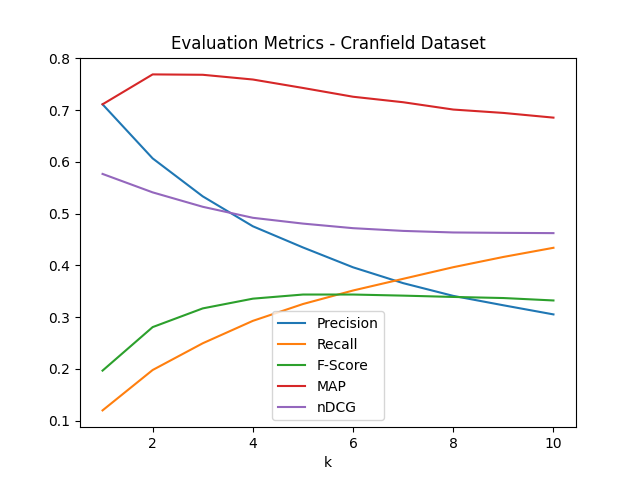
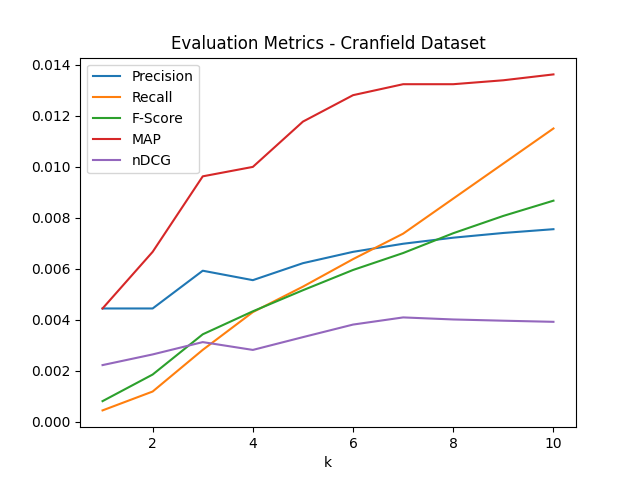
developped arg structure

diff --git a/project/informationRetrieval.py b/project/informationRetrieval.py
@@ -7,23 +7,17 @@ from sklearn.feature_extraction.text import CountVectorizer
 from sklearn.feature_extraction.text import TfidfTransformer
 from sklearn.metrics.pairwise import cosine_similarity
 from sklearn.pipeline import Pipeline
-from sklearn.model_selection import GridSearchCV
 from itertools import chain
 from sklearn.decomposition import TruncatedSVD
-import numpy as np
-from collections import defaultdict
-from nltk.corpus import wordnet
-import time
+from sklearn.decomposition import LatentDirichletAllocation
+
 
 class InformationRetrieval():
 
 	def __init__(self):
 		self.index = None
-		self.synsets_count = 0
-		self.synsets_idx = None
-		self.unique_synsets = None
 
-	def buildIndex(self, docs, docIDs):
+	def buildIndex(self, docs, docIDs, argDimRed):
 		"""
 		Builds the document index in terms of the document
 		IDs and stores it in the 'index' class variable
@@ -70,9 +64,20 @@ class InformationRetrieval():
 		# docs_expansion = expansion(docs)
 		docs = [' '.join(list(chain.from_iterable(x))) for x in docs]
 
-		pipe = Pipeline([('count', CountVectorizer(strip_accents='unicode', max_df=0.5)), 
-                   		 ('tfid', TfidfTransformer(norm='l2',use_idf=True, smooth_idf=True,sublinear_tf=False)),
-                      	 ('svd', TruncatedSVD(n_components=1300))])
+		modelsToFit = [('count', CountVectorizer(strip_accents='unicode', max_df=0.5)), 
+                   	   ('tfid', TfidfTransformer(norm='l2',use_idf=True, smooth_idf=True,sublinear_tf=False))]
+
+		if argDimRed == 'lsa':
+			modelsToFit.append(('svd', TruncatedSVD(n_components=1300)))
+		elif argDimRed == 'lda':
+			modelsToFit.append(('lda', LatentDirichletAllocation(n_components=900)))
+		elif argDimRed == 'no':
+			pass
+		else:
+			exit('Sayonara')
+			
+
+		pipe = Pipeline(modelsToFit)
 		self.pipe = pipe
 		tfidf_docs = pipe.fit_transform(docs)
 		self.tfidf_docs = tfidf_docs

diff --git a/project/main.py b/project/main.py
@@ -171,7 +171,7 @@ class SearchEngine:
 		processedDocs = self.preprocessDocs(docs)
 
 		# Build document index
-		self.informationRetriever.buildIndex(processedDocs, doc_ids)
+		self.informationRetriever.buildIndex(processedDocs, doc_ids, self.args.dimred)
 		# Rank the documents for each query
 		doc_IDs_ordered = self.informationRetriever.rank(processedQueries)
 
@@ -233,7 +233,7 @@ class SearchEngine:
 		processedDocs = self.preprocessDocs(docs)
 
 		# Build document index
-		self.informationRetriever.buildIndex(processedDocs, doc_ids)
+		self.informationRetriever.buildIndex(processedDocs, doc_ids, self.args.dimred)
 		# Rank the documents for the query
 		doc_IDs_ordered = self.informationRetriever.rank([processedQuery])[0]
 
@@ -262,6 +262,8 @@ if __name__ == "__main__":
 						help = "Take custom query as input")
 	parser.add_argument('-qexpander', default = "yes", 
 						help = "Do query expansion [yes|no]")
+	parser.add_argument('-dimred', default = "lsa", 
+						help = "Do query expansion [lsa|lda|no]")
 	
 	# Parse the input arguments
 	args = parser.parse_args()
